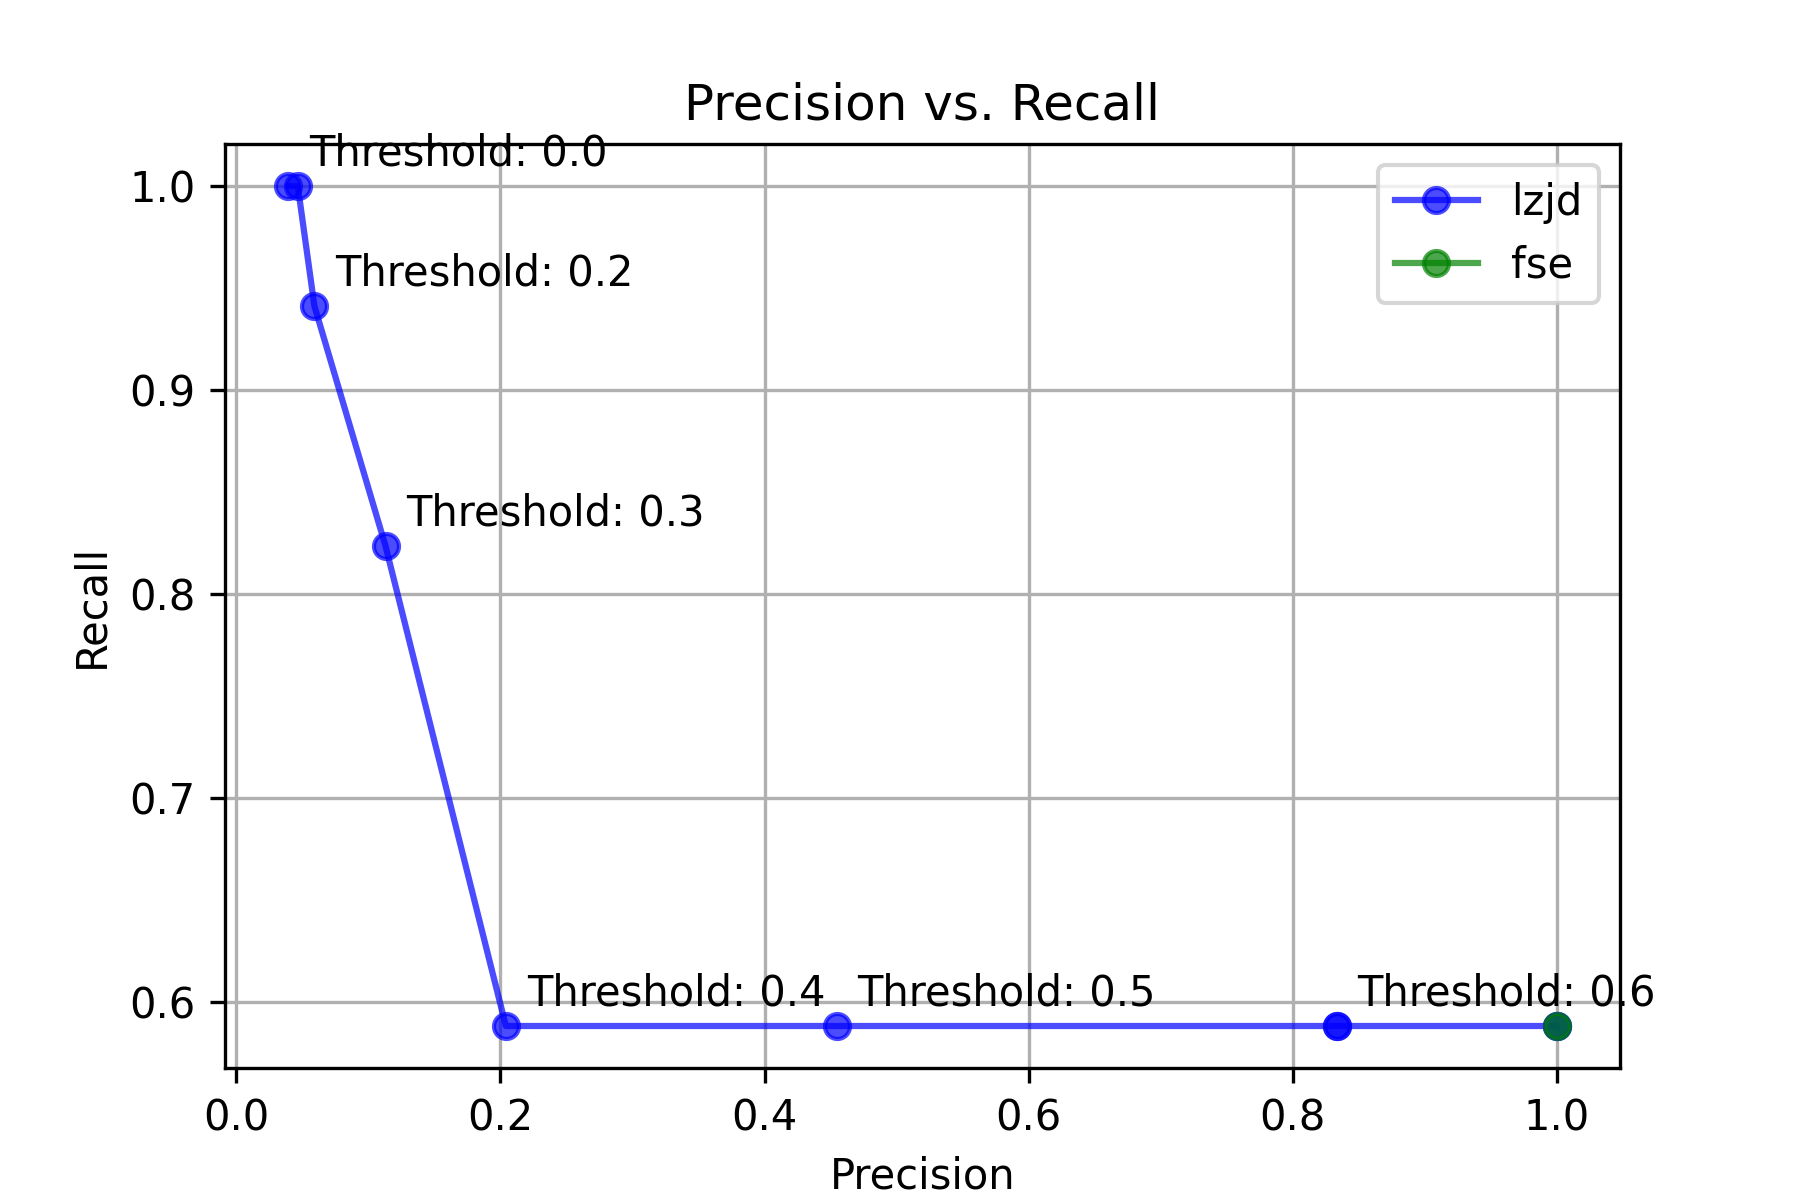
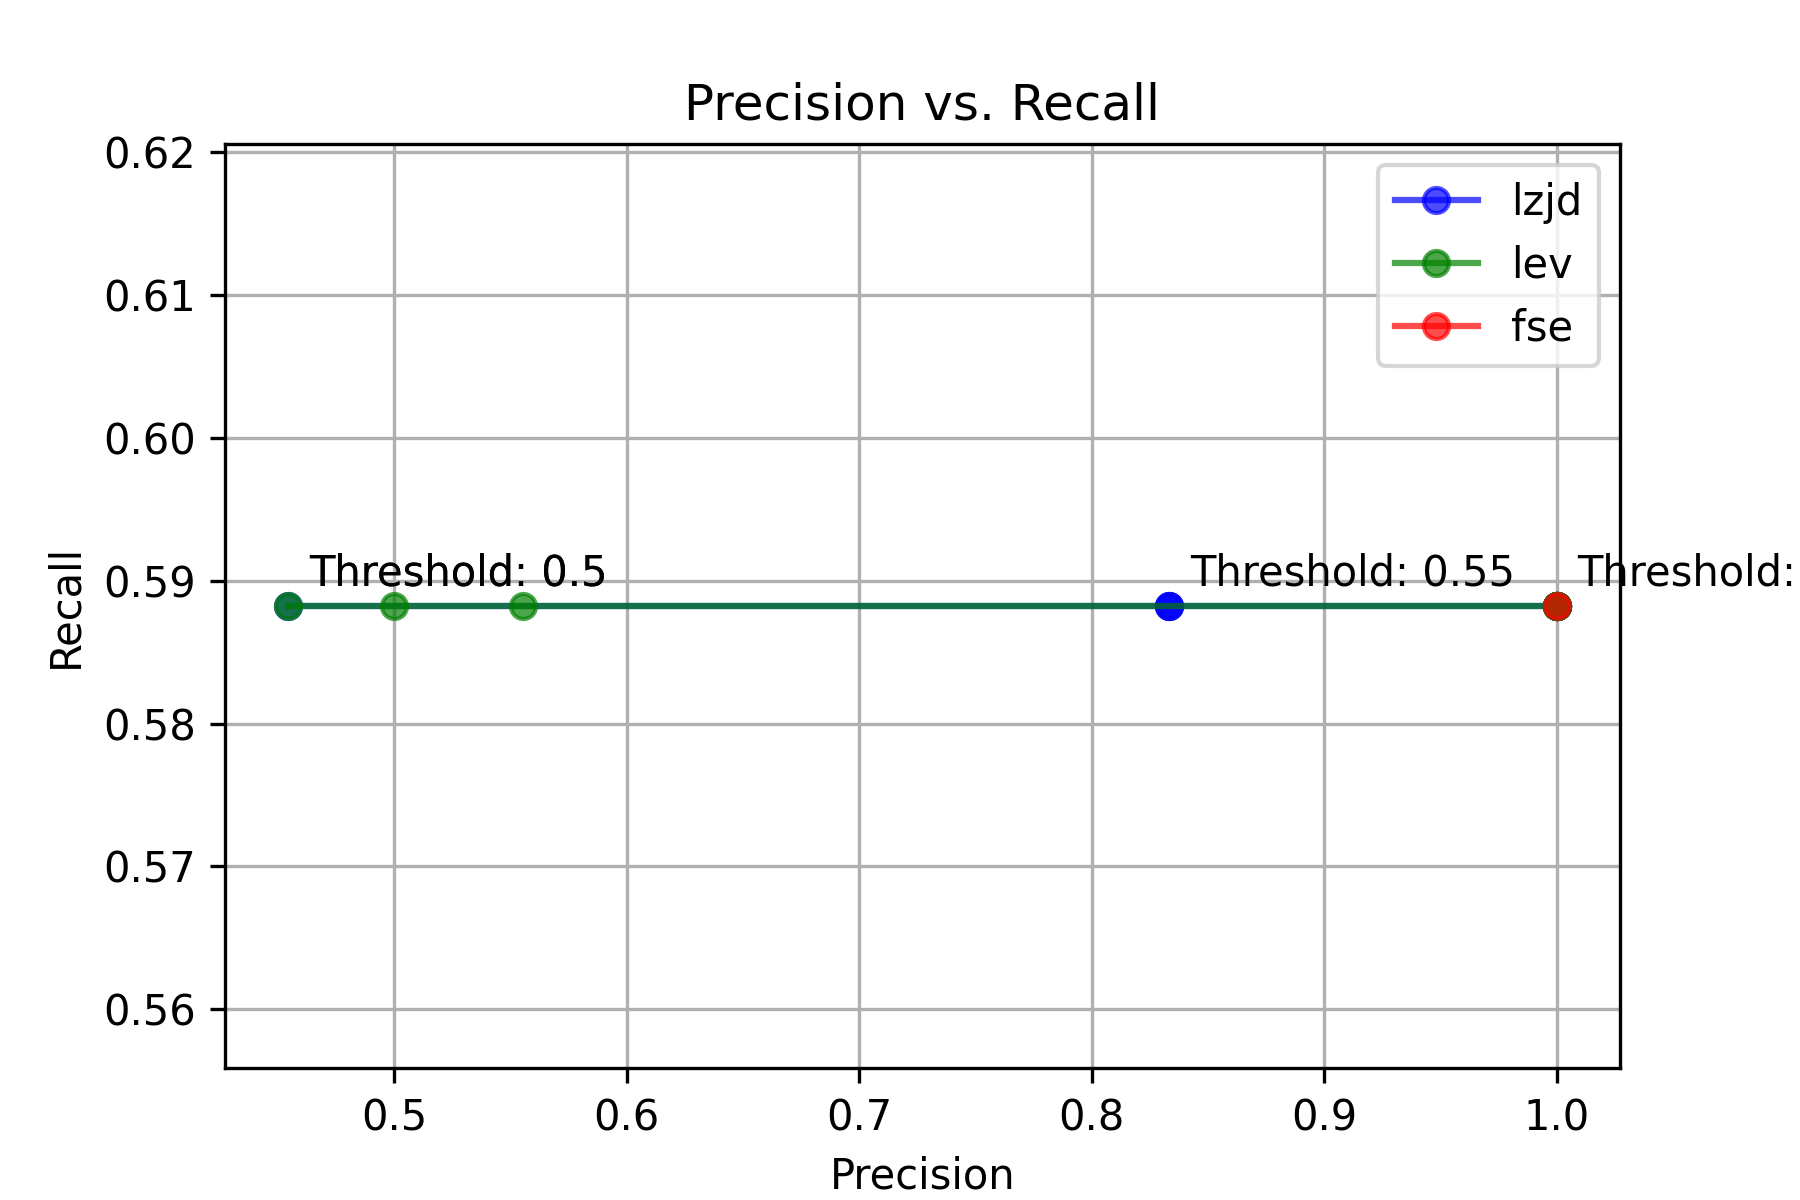
lev distance too

diff --git a/lzjd-script.py b/lzjd-script.py
@@ -219,26 +219,43 @@ fsesum = summarize_confusion(fsecm)
 fsesum.update({"technique": "fse"})
 print(f"FSE\n{fsecm}\n{fsesum}")
 
-lzjds = []
+threshold_range = list(np.arange(0.5,1.01,0.05))
 
 # lzjd
-for i in tqdm.tqdm(range(10), desc="lzjd iterations"):
-    t = i / 10.0
+lzjds = []
+for t in tqdm.tqdm(threshold_range, desc="lzjd iterations"):
 
     y_lzjd = [cmp(addr1, addr2, eds_sim(fuzzyhash1, fuzzyhash2) >= t) for ((addr1, (_, fuzzyhash1)), (addr2, (_, fuzzyhash2))) in tqdm.tqdm(itertools.product(funs1.items(), funs2.items()), desc="lzjd inner loop", total=len(funs1)*len(funs2))]
 
     y_predlzjd, _ = zip(*y_lzjd)
 
     cm = sklearn.metrics.confusion_matrix(y_true, y_predlzjd, labels=[True, False])
-    lzjdsum = summarize_confusion(cm)
-    lzjdsum.update({"threshold": t, "technique": "lzjd"})
-    lzjds = lzjds + [lzjdsum]
-    print(f"LZJD {i}\n{cm}\n{lzjdsum}")
+    levsum = summarize_confusion(cm)
+    levsum.update({"threshold": t, "technique": "lzjd"})
+    lzjds = lzjds + [levsum]
+    print(f"LZJD {t}\n{cm}\n{levsum}")
+
+# edit distance
+levs = []
+for t in tqdm.tqdm(threshold_range, desc="ed iterations"):
+
+    y_lev = [cmp(addr1, addr2, lev_sim(bytes1, bytes2) >= t) for ((addr1, (bytes1, _)), (addr2, (bytes2, _))) in tqdm.tqdm(itertools.product(funs1.items(), funs2.items()), desc="lzjd inner loop", total=len(funs1)*len(funs2))]
+
+    y_predlev, _ = zip(*y_lev)
+
+    cm = sklearn.metrics.confusion_matrix(y_true, y_predlev, labels=[True, False])
+    levsum = summarize_confusion(cm)
+    levsum.update({"threshold": t, "technique": "lev"})
+    levs = levs + [levsum]
+    print(f"LEV {t}\n{cm}\n{levsum}")
+
 
 # thanks chatgpt!
 import matplotlib.pyplot as plt
 
-data = lzjds + [fsesum]
+data = lzjds + levs + [fsesum]
+
+print(data)
 
 techniques = {}
 for entry in data:
